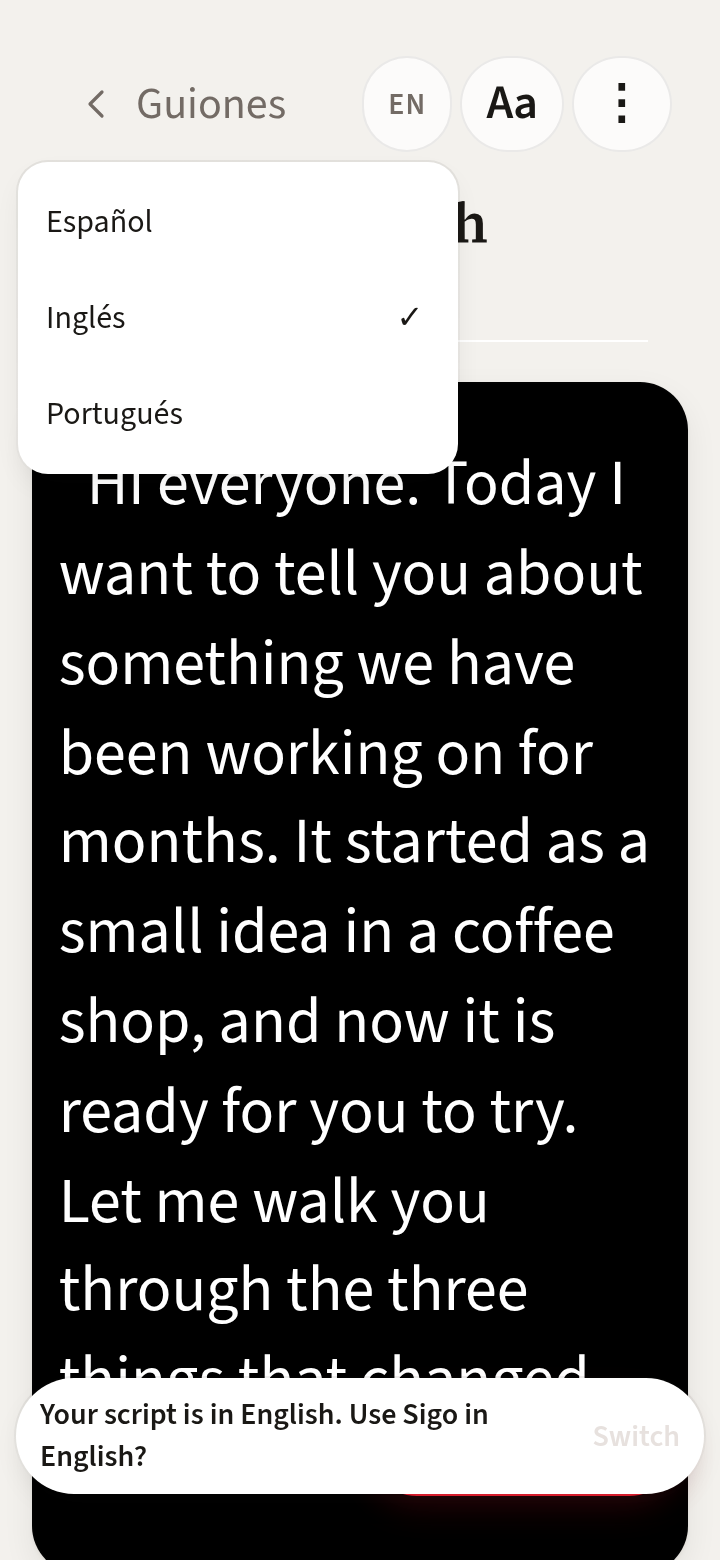
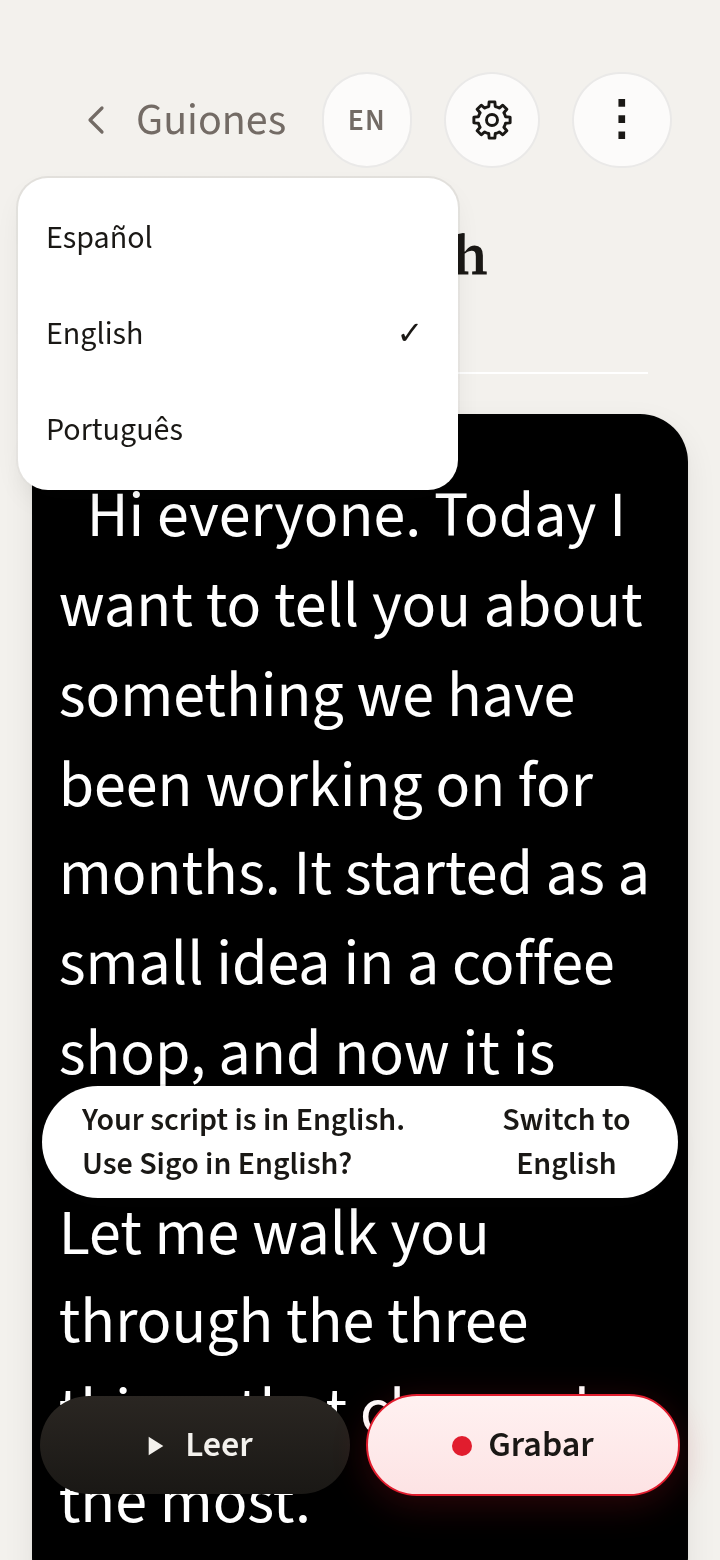
Lámina del portugués regenerada desde el código (puntos 6 y 7), claro y oscuro, 360 px

diff --git a/docs/pantallas/portugues/herramientas/app-real.tsx b/docs/pantallas/portugues/herramientas/app-real.tsx
@@ -1,6 +1,6 @@
 // LA APP REAL PARA EL BOCETO DEL PORTUGUÉS -portugues-voz, 2026-10-22-. NO es código de la app. Monta la App de
 // verdad -src/App.tsx- con las mismas hojas que src/main.tsx, como mejoras-claridad y tarea90, y le suma
-// boceto.tsx. El tema y los guiones los siembra capturas.cjs.
+// boceto.tsx -ya no-. El tema y los guiones los siembra capturas.cjs.
 import { createRoot } from 'react-dom/client'
 import '@fontsource/source-sans-3/latin-400.css'
 import '@fontsource/source-sans-3/latin-600.css'
@@ -16,6 +16,6 @@ import '../../../../src/styles-horizontal.css'
 import '../../../../src/styles-tableta.css'
 import '../../../../src/styles-visor-de-lado.css'
 import App from '../../../../src/App'
-import './boceto'
+// -portugues-voz, 2026-10-22- Los puntos 6 y 7 ya están en src/: la lámina sale del código. Antes: import './boceto'
 
 createRoot(document.getElementById('root')!).render(<App />)

diff --git a/docs/pantallas/portugues/index.html b/docs/pantallas/portugues/index.html
@@ -6,7 +6,7 @@
 h1{font-family:'Source Serif 4',Georgia,serif;font-weight:600;margin:0 0 6px}p{color:#bdb5ae;margin:0 0 28px;max-width:70ch}
 h2{font-family:'Source Serif 4',Georgia,serif;font-weight:600;font-size:20px;margin:36px 0 10px}img{max-width:100%;display:block;border-radius:12px}</style></head>
 <body><h1>Sigo · el idioma del guion, con portugués · boceto</h1>
-<p>Punto 5 de la orden «portugues-voz». Boceto de los puntos 6 -menú de tres idiomas- y 7 -el aviso- sobre la app real, que todavía no los tiene. Espera el sí de Javier.</p>
+<p>Puntos 6 -menú de tres idiomas- y 7 -el aviso- de la orden «portugues-voz», capturados de la app real con el código de la rama -2026-10-22-. Antes: el boceto del punto 5, dibujado encima de la app.</p>
 <h2>Tema claro</h2>
 <img src="lamina-portugues-claro.png" alt="El editor con el menú de idioma abierto, tema claro">
 <h2>Tema oscuro</h2>

diff --git a/docs/pantallas/portugues/herramientas/app-real.html b/docs/pantallas/portugues/herramientas/app-real.html
@@ -1,7 +1,7 @@
 <!doctype html>
 <!-- LA APP REAL PARA EL BOCETO DEL PORTUGUÉS -portugues-voz, 2026-10-22-. La App de verdad -src/App.tsx- con sus
-     hojas de estilo y, encima, boceto.tsx: el menú de tres idiomas -punto 6- y el aviso -punto 7-, que todavía no
-     existen en src/. Parámetro: guion=en|pt. Ver capturas.cjs. -->
+     hojas de estilo -2026-10-22: sin boceto.tsx; el menú de tres idiomas -punto 6- y el aviso -punto 7- ya están en
+     src/. Antes: y, encima, boceto.tsx, con los dos dibujados-. Parámetro: guion=en|pt. Ver capturas.cjs. -->
 <html lang="es">
 <head>
   <meta charset="utf-8">
